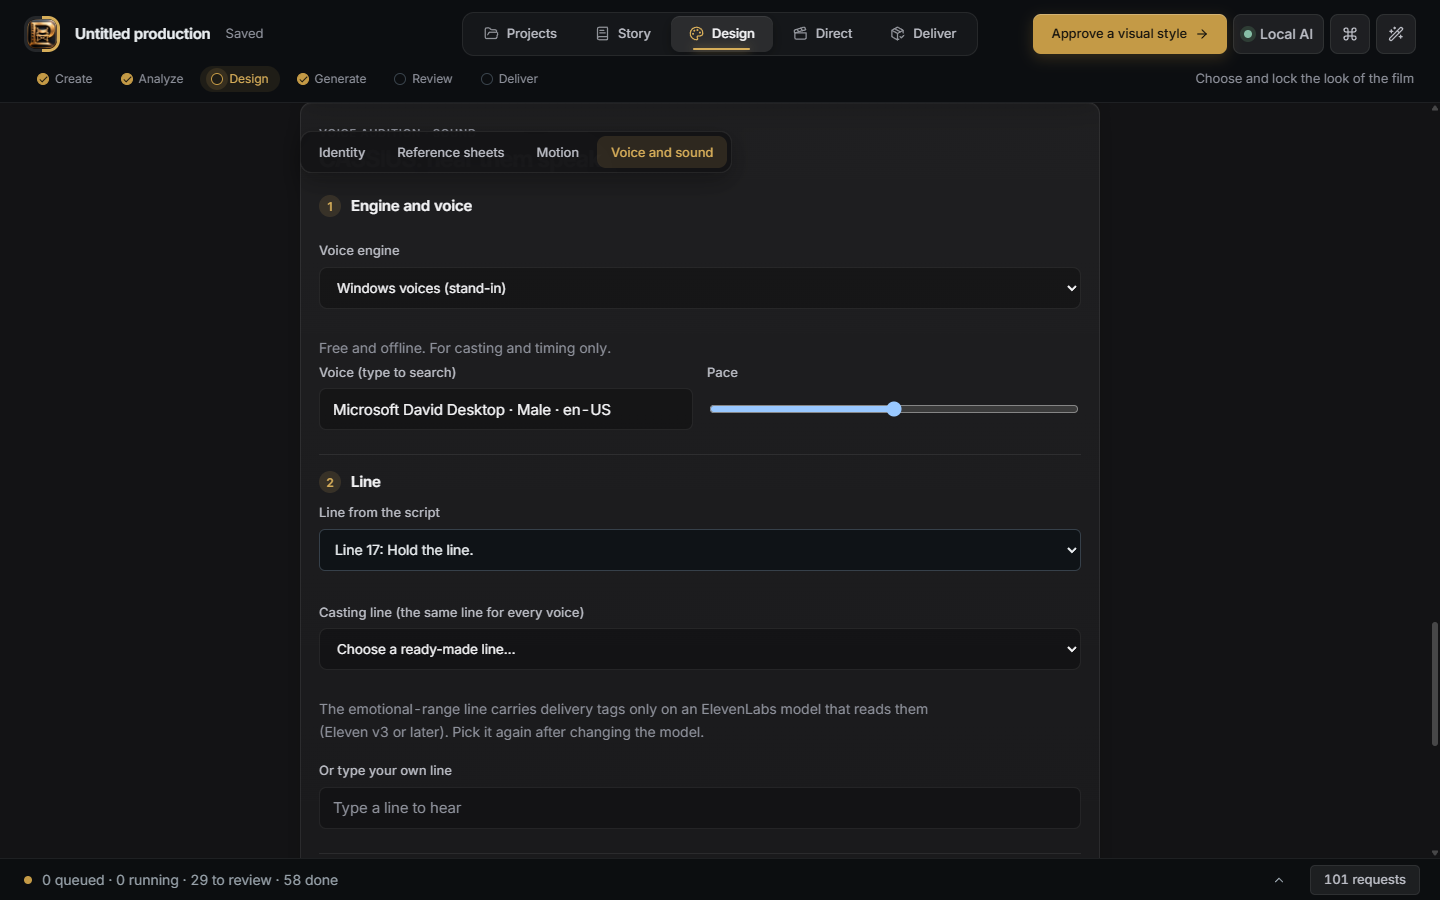
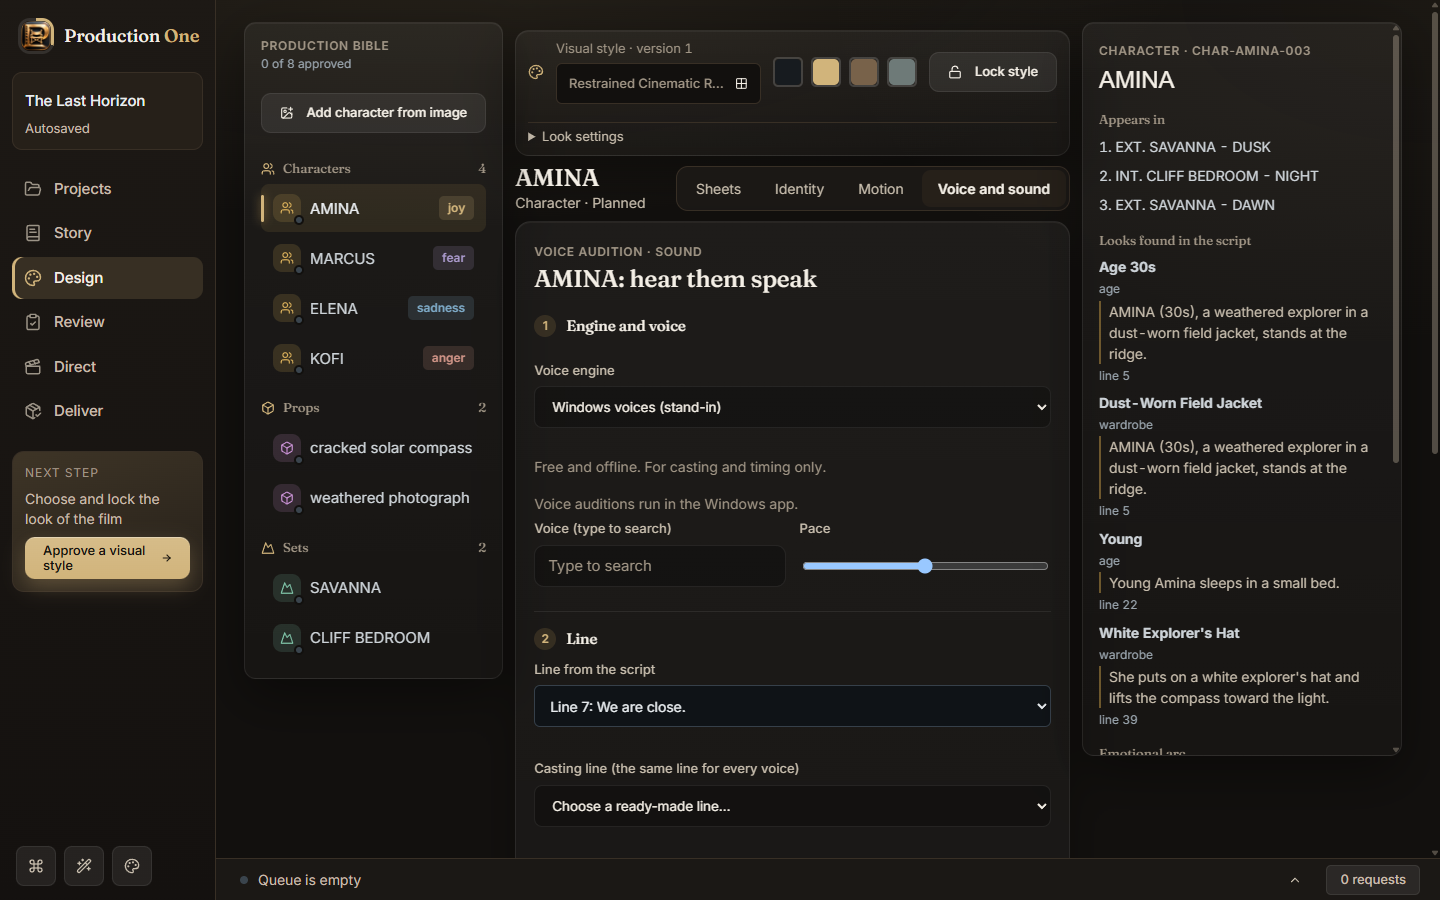
Older screens follow the looks; Cinematic light sidebar; gradient-aware audit; voice screenshot

diff --git a/src/looks.css b/src/looks.css
@@ -14,7 +14,8 @@
 :root[data-look="cinematic"] .sv-head h2, :root[data-look="cinematic"] .rv-head h2, :root[data-look="cinematic"] .sg-head h2 { font-size: 34px; line-height: 1.1; }
 :root[data-look="cinematic"] .po-wordmark { font-size: 18px; white-space: nowrap; }
 :root[data-look="cinematic"] .panel, :root[data-look="cinematic"] .sv-source, :root[data-look="cinematic"] .sv-breakdown, :root[data-look="cinematic"] .sg, :root[data-look="cinematic"] .rv-side, :root[data-look="cinematic"] .fg-group, :root[data-look="cinematic"] .ei-row { border-radius: 16px; }
-:root[data-look="cinematic"] .po-shell > .po-top { background: linear-gradient(180deg, #1d1915, #14110f); }
+:root[data-look="cinematic"]:not([data-theme="light"]) .po-shell > .po-top { background: linear-gradient(180deg, #1d1915, #14110f); }
+:root[data-look="cinematic"][data-theme="light"] .po-shell > .po-top { background: linear-gradient(180deg, #fbf9f4, #f1ece2); }
 :root[data-look="cinematic"] .script-editor { font-size: 16px; line-height: 1.8; }
 
 :root[data-look="cinematic"][data-theme="light"] {
@@ -154,3 +155,14 @@
 :root[data-theme="light"] i.approved, :root[data-theme="light"] .status.approved, :root[data-theme="light"] .graph-list i.approved, :root[data-theme="light"] .dc-caps li.ok svg { color: #2f6b52; }
 :root[data-theme="light"] .dc-stats dd.bad { color: #a3422e; }
 :root[data-theme="light"] .dc-caps li.bad { color: #8a5a1c; }
+
+/* Older screens: surfaces written with fixed graphite colours now follow the look's own tokens (Cinematic and Futurist; Studio keeps its original colours). */
+:root:not([data-look="studio"]) .provider-modal { background: var(--panel-1); border-color: var(--line-1); }
+:root:not([data-look="studio"]) .provider-modal article { background: var(--panel-2); border-color: var(--line-1); }
+:root:not([data-look="studio"]) .provider-modal select, :root:not([data-look="studio"]) .provider-modal input,
+:root:not([data-look="studio"]) .style-browser-trigger, :root:not([data-look="studio"]) .prompt-box, :root:not([data-look="studio"]) .asset-prompt-editor { background: var(--bg); border-color: var(--line-1); color: var(--text); }
+:root:not([data-look="studio"]) .prompt-box { background: var(--panel-1); }
+:root:not([data-look="studio"]) .po-cost-pop, :root:not([data-look="studio"]) .golden-dot, :root:not([data-look="studio"]) .model-match, :root:not([data-look="studio"]) .video-model-card { background: var(--panel-2); border-color: var(--line-1); }
+:root:not([data-look="studio"]) .asset-browser button.selected { background: color-mix(in srgb, var(--gold-2) 10%, var(--panel-2)); border-color: color-mix(in srgb, var(--gold-2) 45%, var(--line-1)); color: var(--text); }
+/* Light theme: the "Not generated" tile sits on a grey wash over a dark thumbnail, so its label needs the full text colour. */
+:root[data-theme="light"] .thumb-empty, :root[data-theme="light"] .thumb-empty span { color: var(--text); }

diff --git a/scripts/qa/in-page-audit.js b/scripts/qa/in-page-audit.js
@@ -14,7 +14,7 @@ window.__audit = async (names) => {
     const m = c.match(/rgba?\(([^)]+)\)/); if (!m) return null;
     const p = m[1].split(/[ ,\/]+/).filter(Boolean).map(Number); return { r: p[0], g: p[1], b: p[2], a: p[3] === undefined ? 1 : p[3] };
   };
-  const bgOf = (el) => { const layers = []; for (let e = el; e; e = e.parentElement) { const c = parse(getComputedStyle(e).backgroundColor); if (c && c.a > 0) { layers.push(c); if (c.a >= 1) break } } const pageBg = getComputedStyle(document.documentElement).getPropertyValue('--bg').trim(); const hx = /^#?([0-9a-f]{6})$/i.exec(pageBg); let base = hx ? { r: parseInt(hx[1].slice(0, 2), 16), g: parseInt(hx[1].slice(2, 4), 16), b: parseInt(hx[1].slice(4, 6), 16) } : { r: 13, g: 16, b: 23 }; for (const l of layers.reverse()) base = { r: l.r * l.a + base.r * (1 - l.a), g: l.g * l.a + base.g * (1 - l.a), b: l.b * l.a + base.b * (1 - l.a) }; return base };
+  const bgOf = (el) => { const layers = []; for (let e = el; e; e = e.parentElement) { const gi = getComputedStyle(e).backgroundImage; if (/gradient/.test(gi)) { const cols = [...gi.matchAll(/rgba?\([^)]*\)|color\(srgb[^)]*\)/g)].map((m) => parse(m[0])).filter(Boolean); if (cols.length) { const g = { r: cols.reduce((s, c) => s + c.r, 0) / cols.length, g: cols.reduce((s, c) => s + c.g, 0) / cols.length, b: cols.reduce((s, c) => s + c.b, 0) / cols.length, a: Math.min(...cols.map((c) => c.a)) }; layers.push(g); if (g.a >= 1) break } } const c = parse(getComputedStyle(e).backgroundColor); if (c && c.a > 0) { layers.push(c); if (c.a >= 1) break } } const pageBg = getComputedStyle(document.documentElement).getPropertyValue('--bg').trim(); const hx = /^#?([0-9a-f]{6})$/i.exec(pageBg); let base = hx ? { r: parseInt(hx[1].slice(0, 2), 16), g: parseInt(hx[1].slice(2, 4), 16), b: parseInt(hx[1].slice(4, 6), 16) } : { r: 13, g: 16, b: 23 }; for (const l of layers.reverse()) base = { r: l.r * l.a + base.r * (1 - l.a), g: l.g * l.a + base.g * (1 - l.a), b: l.b * l.a + base.b * (1 - l.a) }; return base };
   const lum = (c) => { const f = (v) => { v /= 255; return v <= .03928 ? v / 12.92 : Math.pow((v + .055) / 1.055, 2.4) }; return .2126 * f(c.r) + .7152 * f(c.g) + .0722 * f(c.b) };
   const ratio = (a, b) => { const l1 = lum(a), l2 = lum(b); return (Math.max(l1, l2) + .05) / (Math.min(l1, l2) + .05) };
   const out = [];

diff --git a/docs/USER_GUIDE.md b/docs/USER_GUIDE.md
@@ -2,7 +2,7 @@
 
 Follow the **Golden Path**; the sidebar shows your next step: Create, Analyze, Design, Generate, Review, Deliver (Direct is optional). The gold button in the sidebar always names the next useful step. **Ctrl+K** opens the command palette for any action, and **Alt+1 to Alt+6** switches workspace (Projects, Story, Design, Direct, Deliver, Review).
 
-The **sidebar** on the left holds the project name and its save state, the workspaces, the next step as one gold button, Local AI, the command palette and Providers. Below 1280 px wide it shrinks to icons. *The screenshots of the workspaces, the palette and the light theme were retaken for 0.38.0. The sheet, voice, audition and queue pictures are older and show the previous top bar; the same controls are now in the sidebar.*
+The **sidebar** on the left holds the project name and its save state, the workspaces, the next step as one gold button, Local AI, the command palette and Providers. Below 1280 px wide it shrinks to icons. *The screenshots of the workspaces, the palette and the light theme were retaken for 0.38.0. The voice picture was retaken for 0.39.0. The sheet, audition and queue pictures are older and show the previous top bar (they need generated pictures and a busy queue, which the art-free demo project does not have); the same controls are now in the sidebar.*
 
 ![Projects overview with the Golden Path](screenshots/projects.png)
 

diff --git a/CHANGELOG.md b/CHANGELOG.md
@@ -1,5 +1,10 @@
 # Changelog
 
+## Unreleased
+- **Older screens follow the looks.** The Providers dialog, its cards and fields, the prompt box and prompt editor, the style picker button, the model notes and the cost pop-up were written with fixed graphite colours; in Cinematic and Futurist they now take the look's own surfaces (Studio keeps its colours).
+- **Cinematic, light theme: the sidebar.** The dark gradient meant for the dark theme also applied in the light theme, so the logo and the navigation labels were dark on dark (about 1.5 to 2:1). The light theme now has a light sidebar. The in-page audit missed this because it ignored gradient backgrounds; it now averages a gradient's colours, and it also caught the grey "Not generated" label (3.7:1), now darker in the light theme.
+- Guide: the voice-casting screenshot is retaken from the demo project. The sheet, audition and queue pictures stay older (they need generated pictures and jobs).
+
 ## 0.38.1 (2026-11-15): failure groups fix
 - **Failure groups read real status codes.** Providers write the status as "(500 Internal Server Error)" or "answered 503 Service Unavailable", not just "(500)", so server errors landed in "other" and ElevenLabs errors lost their code. Found by live checks; 5 new tests.
 
